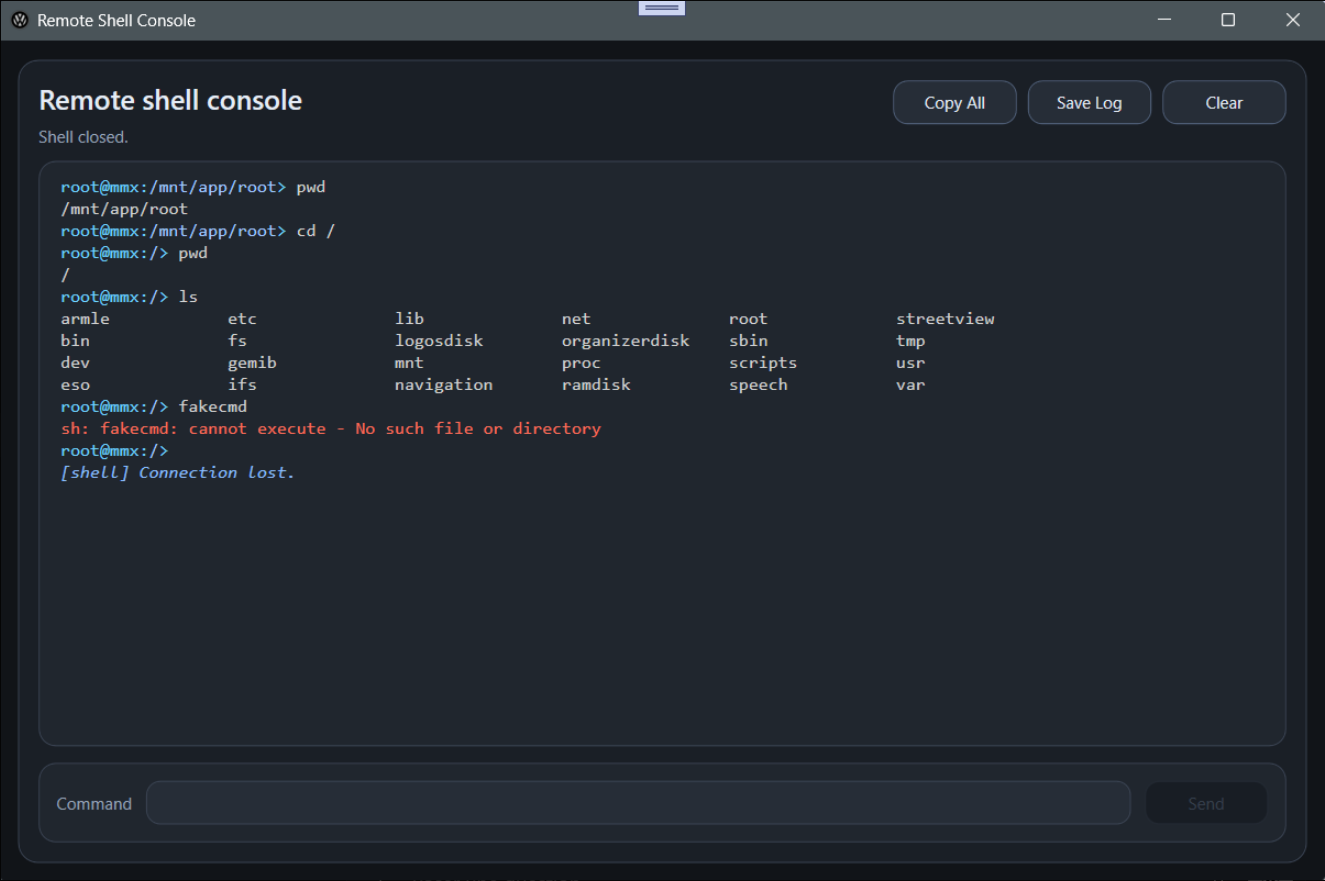
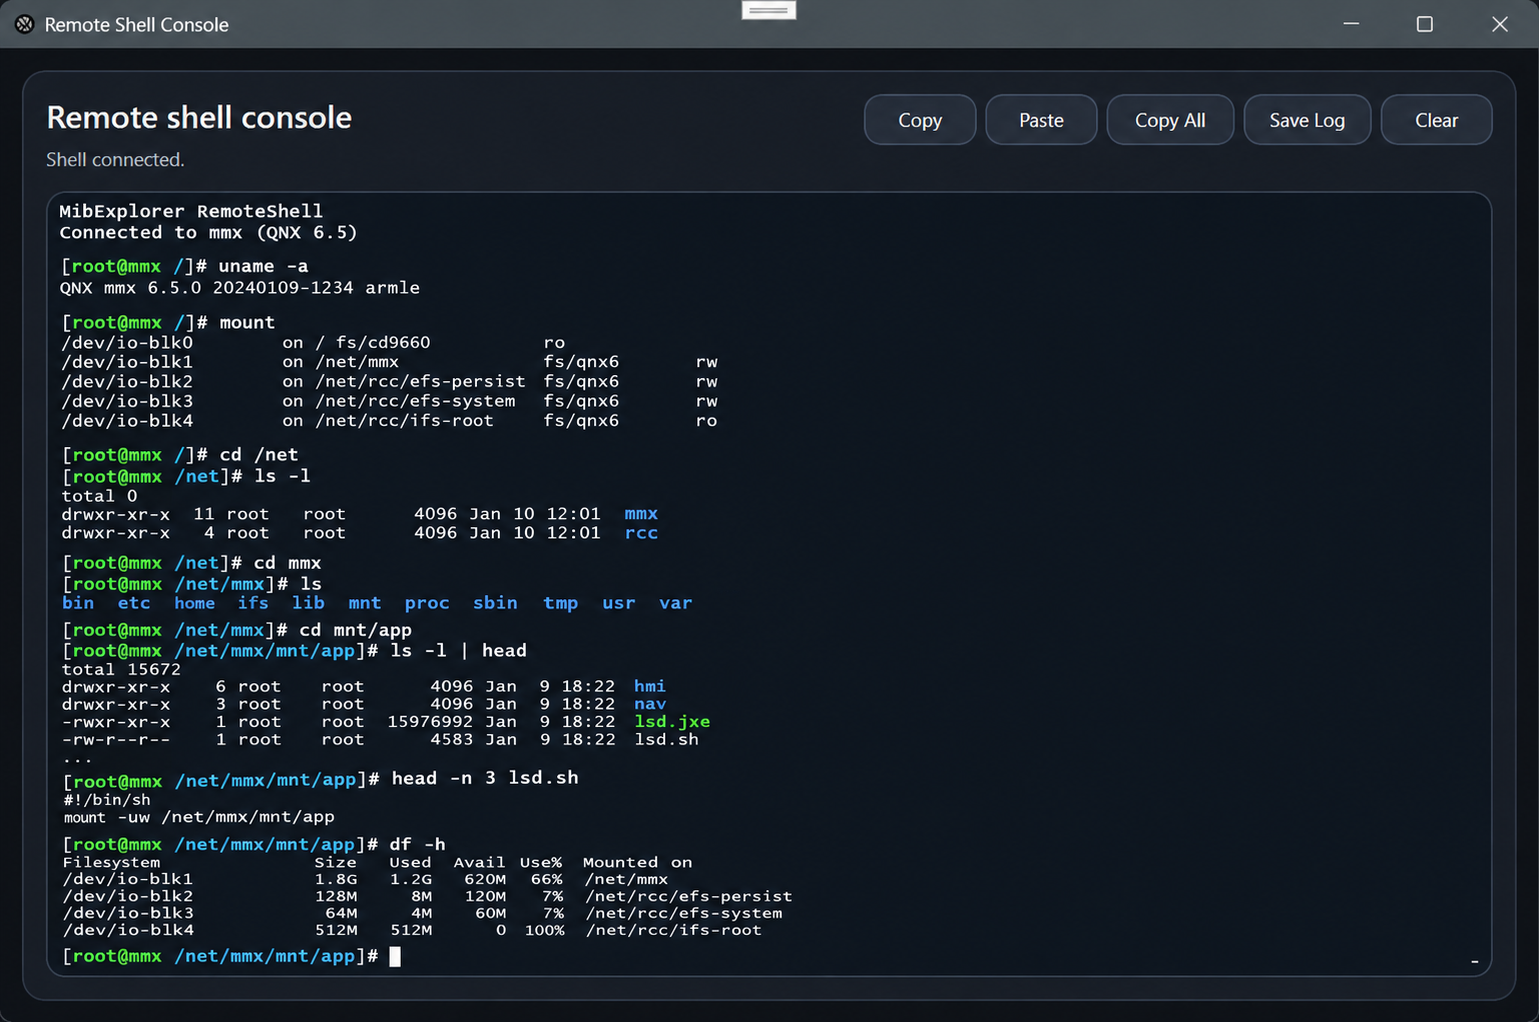
Prepare v0.6.0 documentation and disable Adaptations Center

diff --git a/MibExplorer/Views/MainWindow/MainWindow.xaml b/MibExplorer/Views/MainWindow/MainWindow.xaml
@@ -63,7 +63,8 @@
                 <MenuItem Header="_Coding Center"
                           Click="CodingCenterMenuItem_Click"/>
                 <MenuItem Header="Adaptations Center"
-                          Click="AdaptationsCenterMenuItem_Click"/>
+                          Click="AdaptationsCenterMenuItem_Click"
+                          IsEnabled="False"/>
                 <MenuItem Header="_Remote Shell Console"
                           Click="RemoteShellConsoleMenuItem_Click"/>
                 <Separator/>

diff --git a/README.md b/README.md
@@ -25,11 +25,12 @@ It provides:
 
 ## 📁 Remote File Explorer
 
-* Full remote filesystem browsing (TreeView + ListView)
+* Browse accessible QNX filesystem nodes from the `/net` root, including MMX and RCC (TreeView + ListView)
 * Lazy loading for performance
 * Context menu operations (files & folders)
-* Symlink support (navigation + visibility)
+* Symlink-aware navigation and file operations
 * Hidden files support
+* Click an empty area in the Content pane to clear the current selection and target the open folder
 
 ---
 
@@ -37,8 +38,11 @@ It provides:
 
 * Download / upload files
 * Rename / delete files and folders
-* Recursive folder upload
-* Folder extraction
+* Recursive folder upload and extraction
+* Resolve symbolic-link destinations when handling file operations
+* Preserve the initial read-only / read-write mount state on supported QNX volumes
+* MMX: use the actual QNX filesystem permissions instead of an application-wide write-path whitelist
+* RCC: browse, download and extract throughout; explorer writes are restricted to files and folders **inside** `/net/rcc/mnt/efs-persist` and `/net/rcc/mnt/efs-system`
 * **Safe folder replace**:
 
   * temporary upload
@@ -61,38 +65,37 @@ It provides:
 
 ![MibExplorer Shell](docs/Shell.png)
 
-MibExplorer includes a **built-in interactive remote shell console**.
+MibExplorer includes a **built-in interactive QNX terminal** powered by xterm.js and WebView2.
 
 ---
 
 ### Features
 
-* Real persistent SSH shell session (no command emulation)
-* Interactive command execution
-* Live remote output display
-* Command history navigation (Up / Down)
-* Clear console (`Ctrl + L`)
-* Copy all output
-* Save console log to file
-* Themed context menu
+* Real persistent SSH shell session with direct keyboard input (no command emulation)
+* Live terminal output with ANSI colors and escape-sequence rendering
+* Interactive shell history (Up / Down, when supported by the remote shell)
+* Terminal resizing with the window
+* Copy, Paste, Copy All, Save Log and Clear toolbar actions
+* Themed right-click menu: Copy / Paste / Select All
 * Single console instance management
+
+---
+
+### Keyboard Shortcuts
+
+* `Ctrl + C`: copy selected text; without a selection, send interrupt to QNX
+* `Ctrl + V`: paste from the Windows clipboard (including multiline text)
+* `Ctrl + Shift + C`: copy the current selection
+* `Ctrl + L`: clear the local terminal display
 
 ---
 
 ### Console Rendering
 
-* Terminal-like prompt and command flow
-* Prompt-aware formatting:
-  * user/host (cyan)
-  * path (light blue)
-* Distinct colors for:
-  * commands (white)
-  * normal output (light gray)
-  * errors (red)
-  * warnings (orange)
-  * system messages `[shell]` (blue, italic)
-* Clean spacing and improved readability
-* Output trimming to prevent memory overflow
+* xterm.js terminal with a theme matching the MibExplorer interface
+* ANSI colors and cursor/control sequences rendered from the remote QNX output
+* Scrollback history without imposing client-side colors on ordinary shell output
+* HTML, CSS, JavaScript and xterm.js bundled inside the single-file executable
 
 ---
 
@@ -386,7 +389,8 @@ MibExplorer includes a built-in **remote file editor** for editing files directl
 * Explicit save with overwrite
 * Atomic save (temporary file + replace)
 * RW mount handling for writable paths
-* Read-only fallback for protected areas
+* Read-only fallback for protected areas, including RCC paths outside the two supported `efs-*` partitions
+* Rechecks write permissions when saving to a remote RCC path
 * Reload file support
 * Unsaved changes protection (Save / Discard / Cancel)
 
@@ -474,7 +478,7 @@ MibExplorer provides a **complete SSH lifecycle system** for MIB devices.
 * No external tools required
 * Includes:
 
-  * SSH payload (sshd)
+  * SSH payload (sshd with QNX-compatible `internal-sftp`)
   * public key (GEM)
   * scripts and checksums
 
@@ -579,7 +583,8 @@ MibExplorer provides a **complete SSH lifecycle system** for MIB devices.
 
 MibExplorer is built with a strong focus on **safety and reversibility**:
 
-* Controlled RW/RO remount handling
+* Controlled RW/RO remount handling, restoring the original mount state when required
+* RCC file-explorer writes restricted to `efs-persist` and `efs-system` (the RemoteShell remains an unrestricted SSH terminal)
 * Atomic file operations
 * Backup-based restore logic
 * Defensive cleanup mechanisms
@@ -607,9 +612,10 @@ Scripts are designed for use with Script Center.
 
 # 🔌 Requirements
 
-* Windows 10 / 11
-* .NET 8 Runtime
+* Windows 10 / 11 (x64)
+* Microsoft Edge WebView2 Runtime installed on the PC (required for RemoteShell)
 * Volkswagen MIB2 / MIB2.5 with SSH capability
+* The release is a self-contained, single-file `MibExplorer.exe`; **no separate .NET 8 Runtime installation is required**
 
 ---
 
@@ -642,11 +648,11 @@ Scripts are designed for use with Script Center.
 # 📦 Current Capabilities
 
 * SSH install / update / uninstall (SD + direct)
-* Remote filesystem explorer
-* File & folder operations
+* QNX `/net` filesystem explorer with MMX/RCC browsing
+* File & folder operations with controlled RW/RO behavior and RCC write protection
 * Safe replace system
 * Smart filename mapping
-* Remote shell console
+* Interactive xterm.js RemoteShell with ANSI rendering, clipboard shortcuts and a themed context menu
 * Script Center (script execution on MIB)
 * Official script distribution with versioning and SHA-based updates
 * Remote file editor
@@ -664,6 +670,8 @@ Inspired by the MIB modding ecosystem:
 
 * MIB2Toolbox
 * MoreIncredibleBash
+
+The integrated RemoteShell uses [xterm.js](https://xtermjs.org/) and Microsoft Edge WebView2. The bundled xterm.js and fit-addon license notices are retained in the source repository and executable resources.
 
 ---
 
